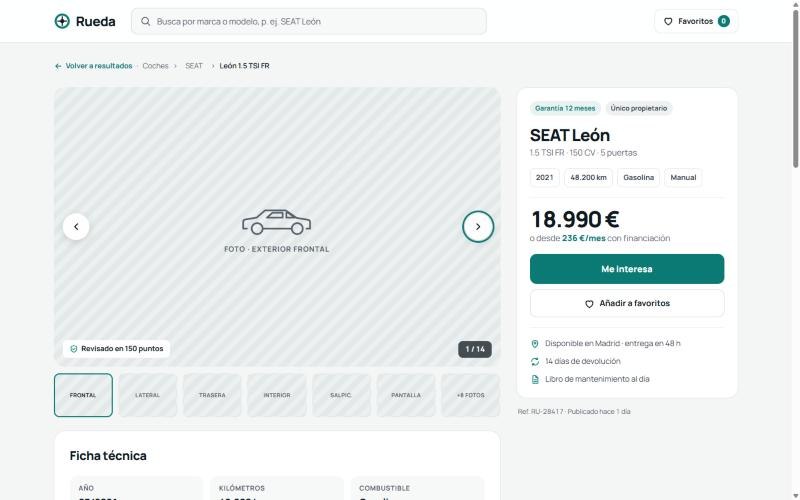
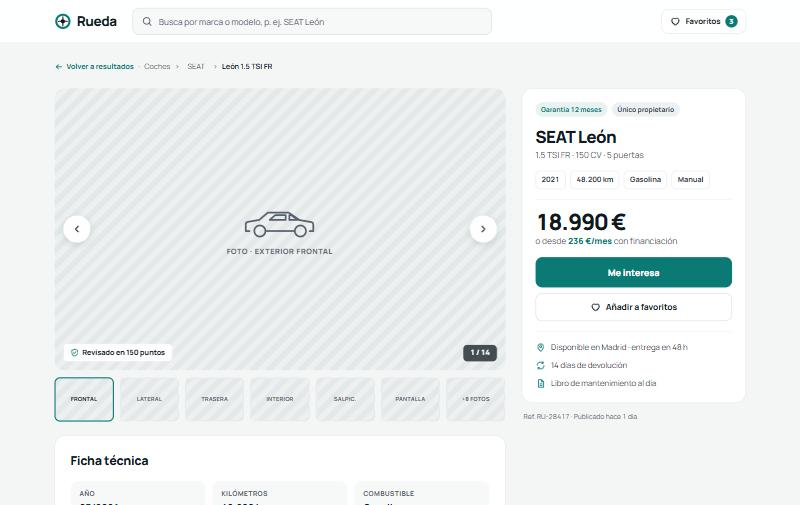
refactor: evita repetir la limpieza de ids en cada render y repite la captura de la ficha
Cierre del proyecto tras la revisión de la fase 5.

diff --git a/src/hooks/useStaleIdsCleanup.ts b/src/hooks/useStaleIdsCleanup.ts
@@ -9,15 +9,17 @@ import { useCars } from './useCars'
  */
 export function useStaleIdsCleanup() {
   const cars = useCars()
+  // El array del catálogo es siempre el mismo (está en caché); el objeto de estado de `useCars` es nuevo en cada render.
+  const catalog = cars.status === 'success' ? cars.data : null
   const favoriteIds = useFavorites((s) => s.items.map((f) => f.id).join(','))
   const compareIds = useCompare((s) => s.ids.join(','))
 
   useEffect(() => {
-    if (cars.status !== 'success') return
-    const exists = new Set(cars.data.map((c) => c.id))
+    if (!catalog) return
+    const exists = new Set(catalog.map((c) => c.id))
     const favorites = useFavorites.getState()
     favorites.items.filter((f) => !exists.has(f.id)).forEach((f) => favorites.remove(f.id))
     const compare = useCompare.getState()
     if (compare.ids.some((id) => !exists.has(id))) compare.set(compare.ids.filter((id) => exists.has(id)))
-  }, [cars, favoriteIds, compareIds])
+  }, [catalog, favoriteIds, compareIds])
 }

diff --git a/PROGRESO.md b/PROGRESO.md
@@ -9,7 +9,7 @@ Registro de avance por fases. Se actualiza al cerrar cada fase.
 | 2. Listado con filtros, orden y URL | ✅ Aprobada por el revisor | 19/10/2026 |
 | 3. Ficha y calculadora | ✅ Aprobada por el revisor | 19/10/2026 |
 | 4. Comparador y favoritos | ✅ Aprobada por el revisor | 20/10/2026 |
-| 5. Responsive, accesibilidad, tests y README | ✅ Hecha · pendiente de revisión | 20/10/2026 |
+| 5. Responsive, accesibilidad, tests y README | ✅ Aprobada por el revisor | 20/10/2026 |
 
 ## Estructura
 
@@ -49,6 +49,13 @@ src/
 ```
 
 ## Fase 5 · Responsive, accesibilidad, tests y README
+
+**Corrección del revisor (aprobada en `d2a12da`)**
+- `src/test/setup.ts`: `configure({ asyncUtilTimeout: 5000 })`. Con la máquina cargada, el primer montaje de la app en jsdom pasaba de 1 s, que es lo que esperan por defecto `findBy*` y `waitFor`, y algunos tests fallaban de forma intermitente sin nada roto. El `testTimeout` de 20 s que puse yo ampliaba el tiempo total de cada test, pero no ese tope de espera. Con los dos, todas las baterías en verde, también con dos ejecuciones a la vez.
+
+**Sugerencias del revisor, aplicadas tras la aprobación**
+1. `useStaleIdsCleanup`: el efecto dependía de `cars`, un objeto nuevo en cada render, así que se ejecutaba en cada render del layout. Ahora depende del array del catálogo, que es siempre el mismo porque está en caché, y de los ids de los stores.
+2. `docs/capturas/ficha-escritorio.jpg`: repetida sin el anillo de foco en la flecha «Foto siguiente».
 
 **Pendientes acumulados del revisor**
 1. ✅ **Fila «Filtros / Ordenar» dentro de la cabecera fija en móvil** (fase 2). El layout ofrece huecos (`layout/slots.tsx`) que las páginas rellenan con un portal: el listado pinta la fila en el hueco de la cabecera y el estado sigue en el listado. A 360 px la cabecera mide 185 px de 780, como en `Listado-movil.dc.html`. Las cabeceras móviles de comparador y favoritos van por el mismo camino a un hueco antes de `<main>`, así que ahora son el landmark `banner` de la página.

diff --git a/REVISION.md b/REVISION.md
@@ -183,3 +183,16 @@ Sugerencias, por si el proyecto sigue:
 
 Para que Eduardo lo entienda:
 Esta fase no añade funciones: pule lo que hay hasta dejarlo como un producto. La fila de filtros de la cabecera móvil usa un portal, un hueco del layout que la página rellena; así el estado de los filtros sigue en el listado y el layout no sabe nada de él. La accesibilidad se comprueba de dos formas: axe dentro de los tests, que vigila la estructura cada vez que se ejecutan, y axe en el navegador real, que es donde se puede medir el contraste. Los tests ya no dependen del tiempo: la API simulada responde al instante en los tests y estos esperan a que aparezca algo en pantalla. La corrección del revisor es la otra mitad de esa idea: dar margen suficiente a esa espera para que un ordenador lento no haga fallar un test que en realidad funciona.
+
+## Cierre — 20/10/2026
+Estado: APROBADO
+
+Comprobado:
+- `PROGRESO.md`: fase 5 marcada como aprobada, con la corrección del revisor bien explicada (`asyncUtilTimeout` frente a `testTimeout`).
+- `src/hooks/useStaleIdsCleanup.ts`: el efecto depende del array del catálogo, que está en caché y no cambia, en vez del objeto de estado nuevo en cada render.
+- `docs/capturas/ficha-escritorio.jpg`: sin el anillo de foco; el borde de la miniatura «FRONTAL» es el de seleccionada.
+- `npm run build`, `npm run lint` y `npm test` (181) en verde, también con dos baterías a la vez.
+
+Corregido por el revisor: nada.
+
+Pendiente para el constructor: nada. Proyecto terminado.
